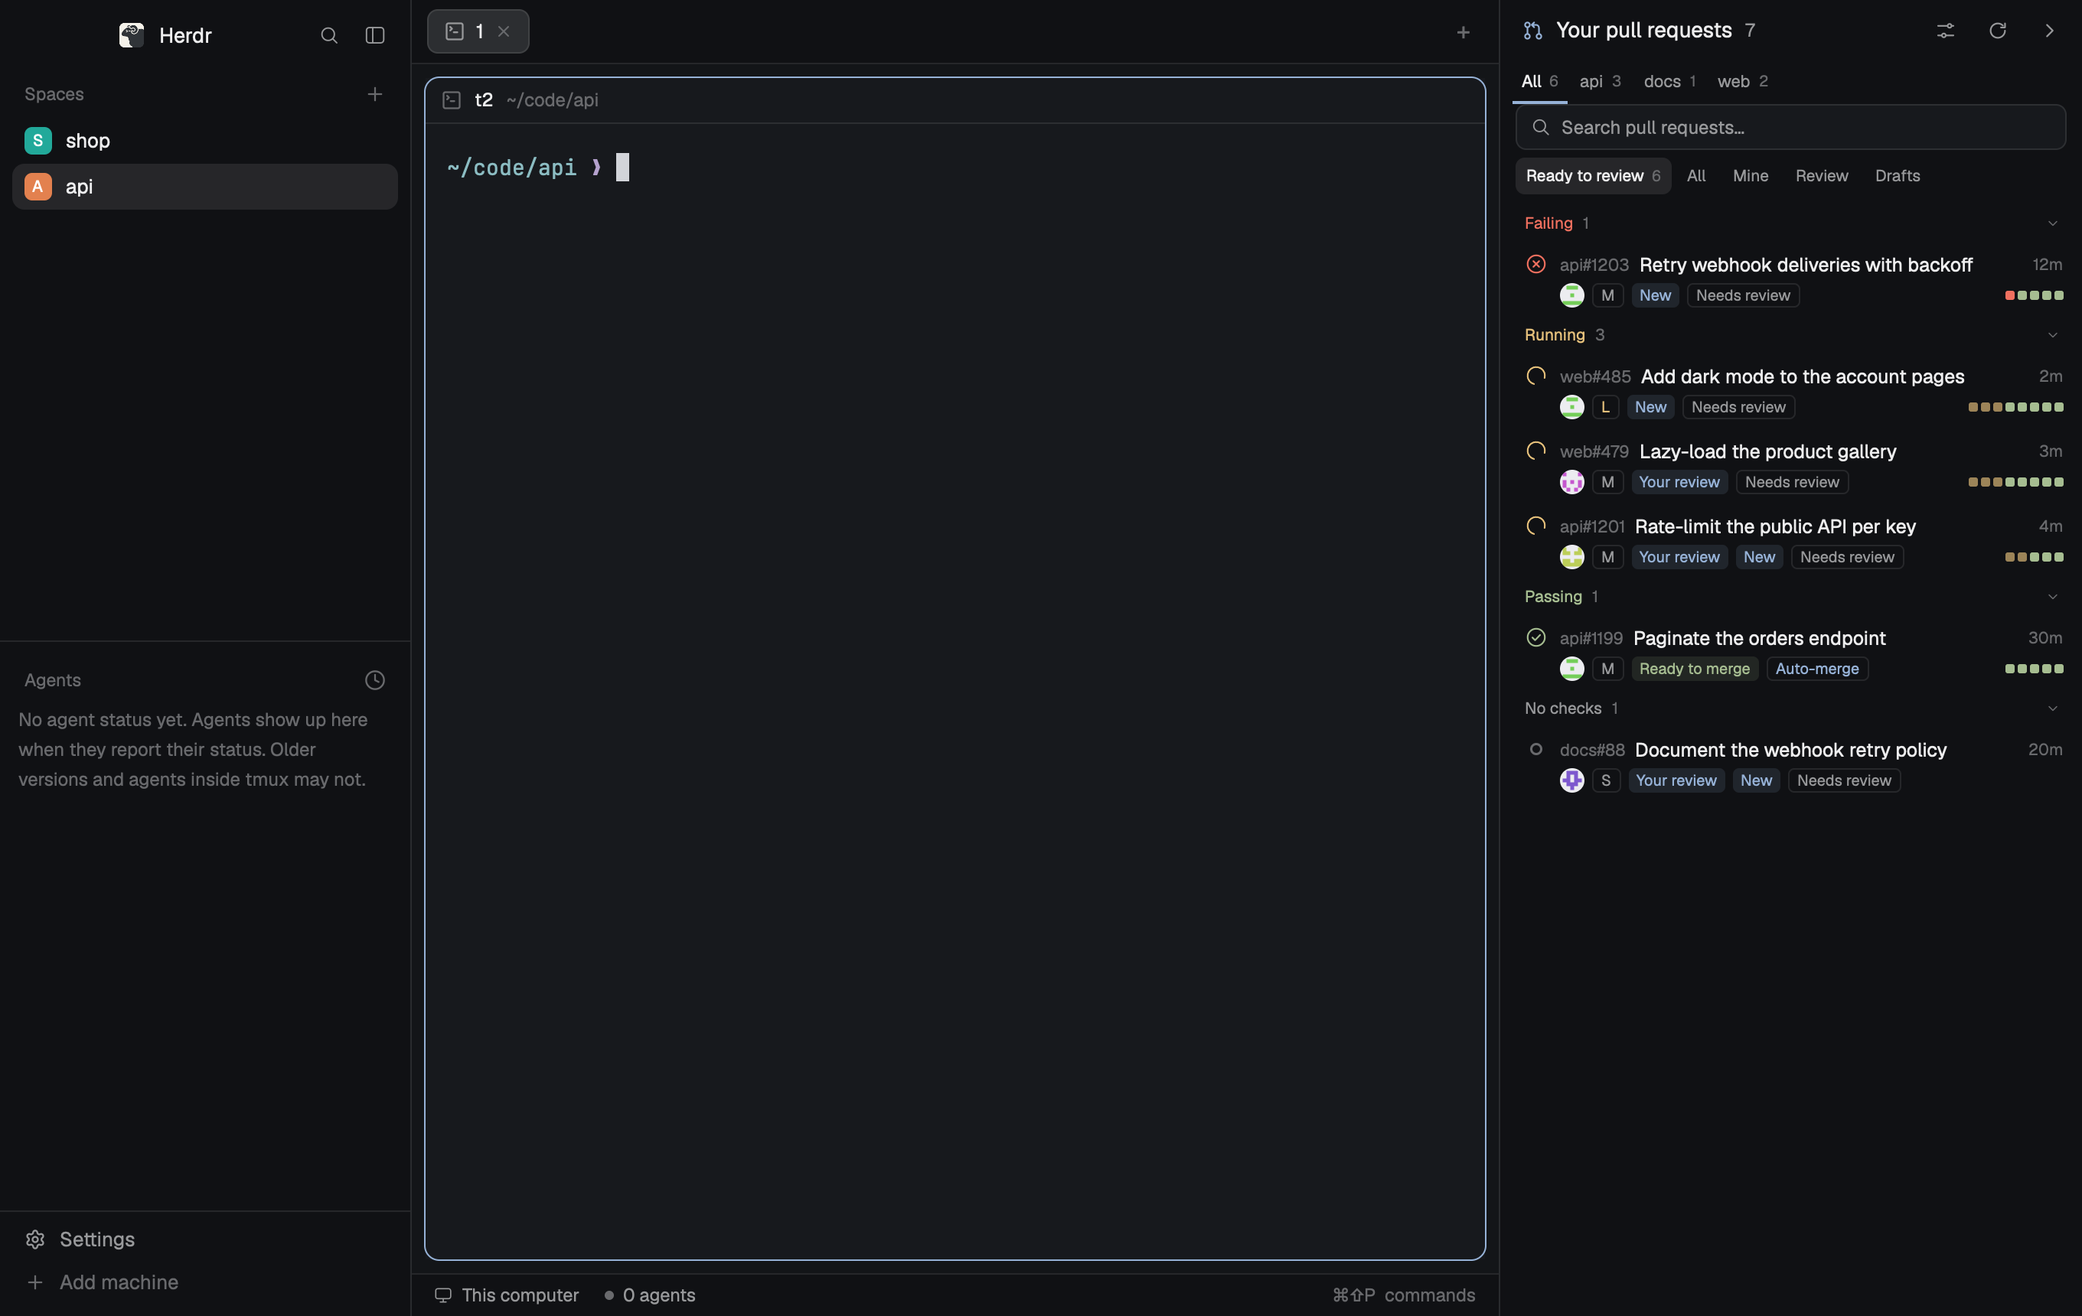
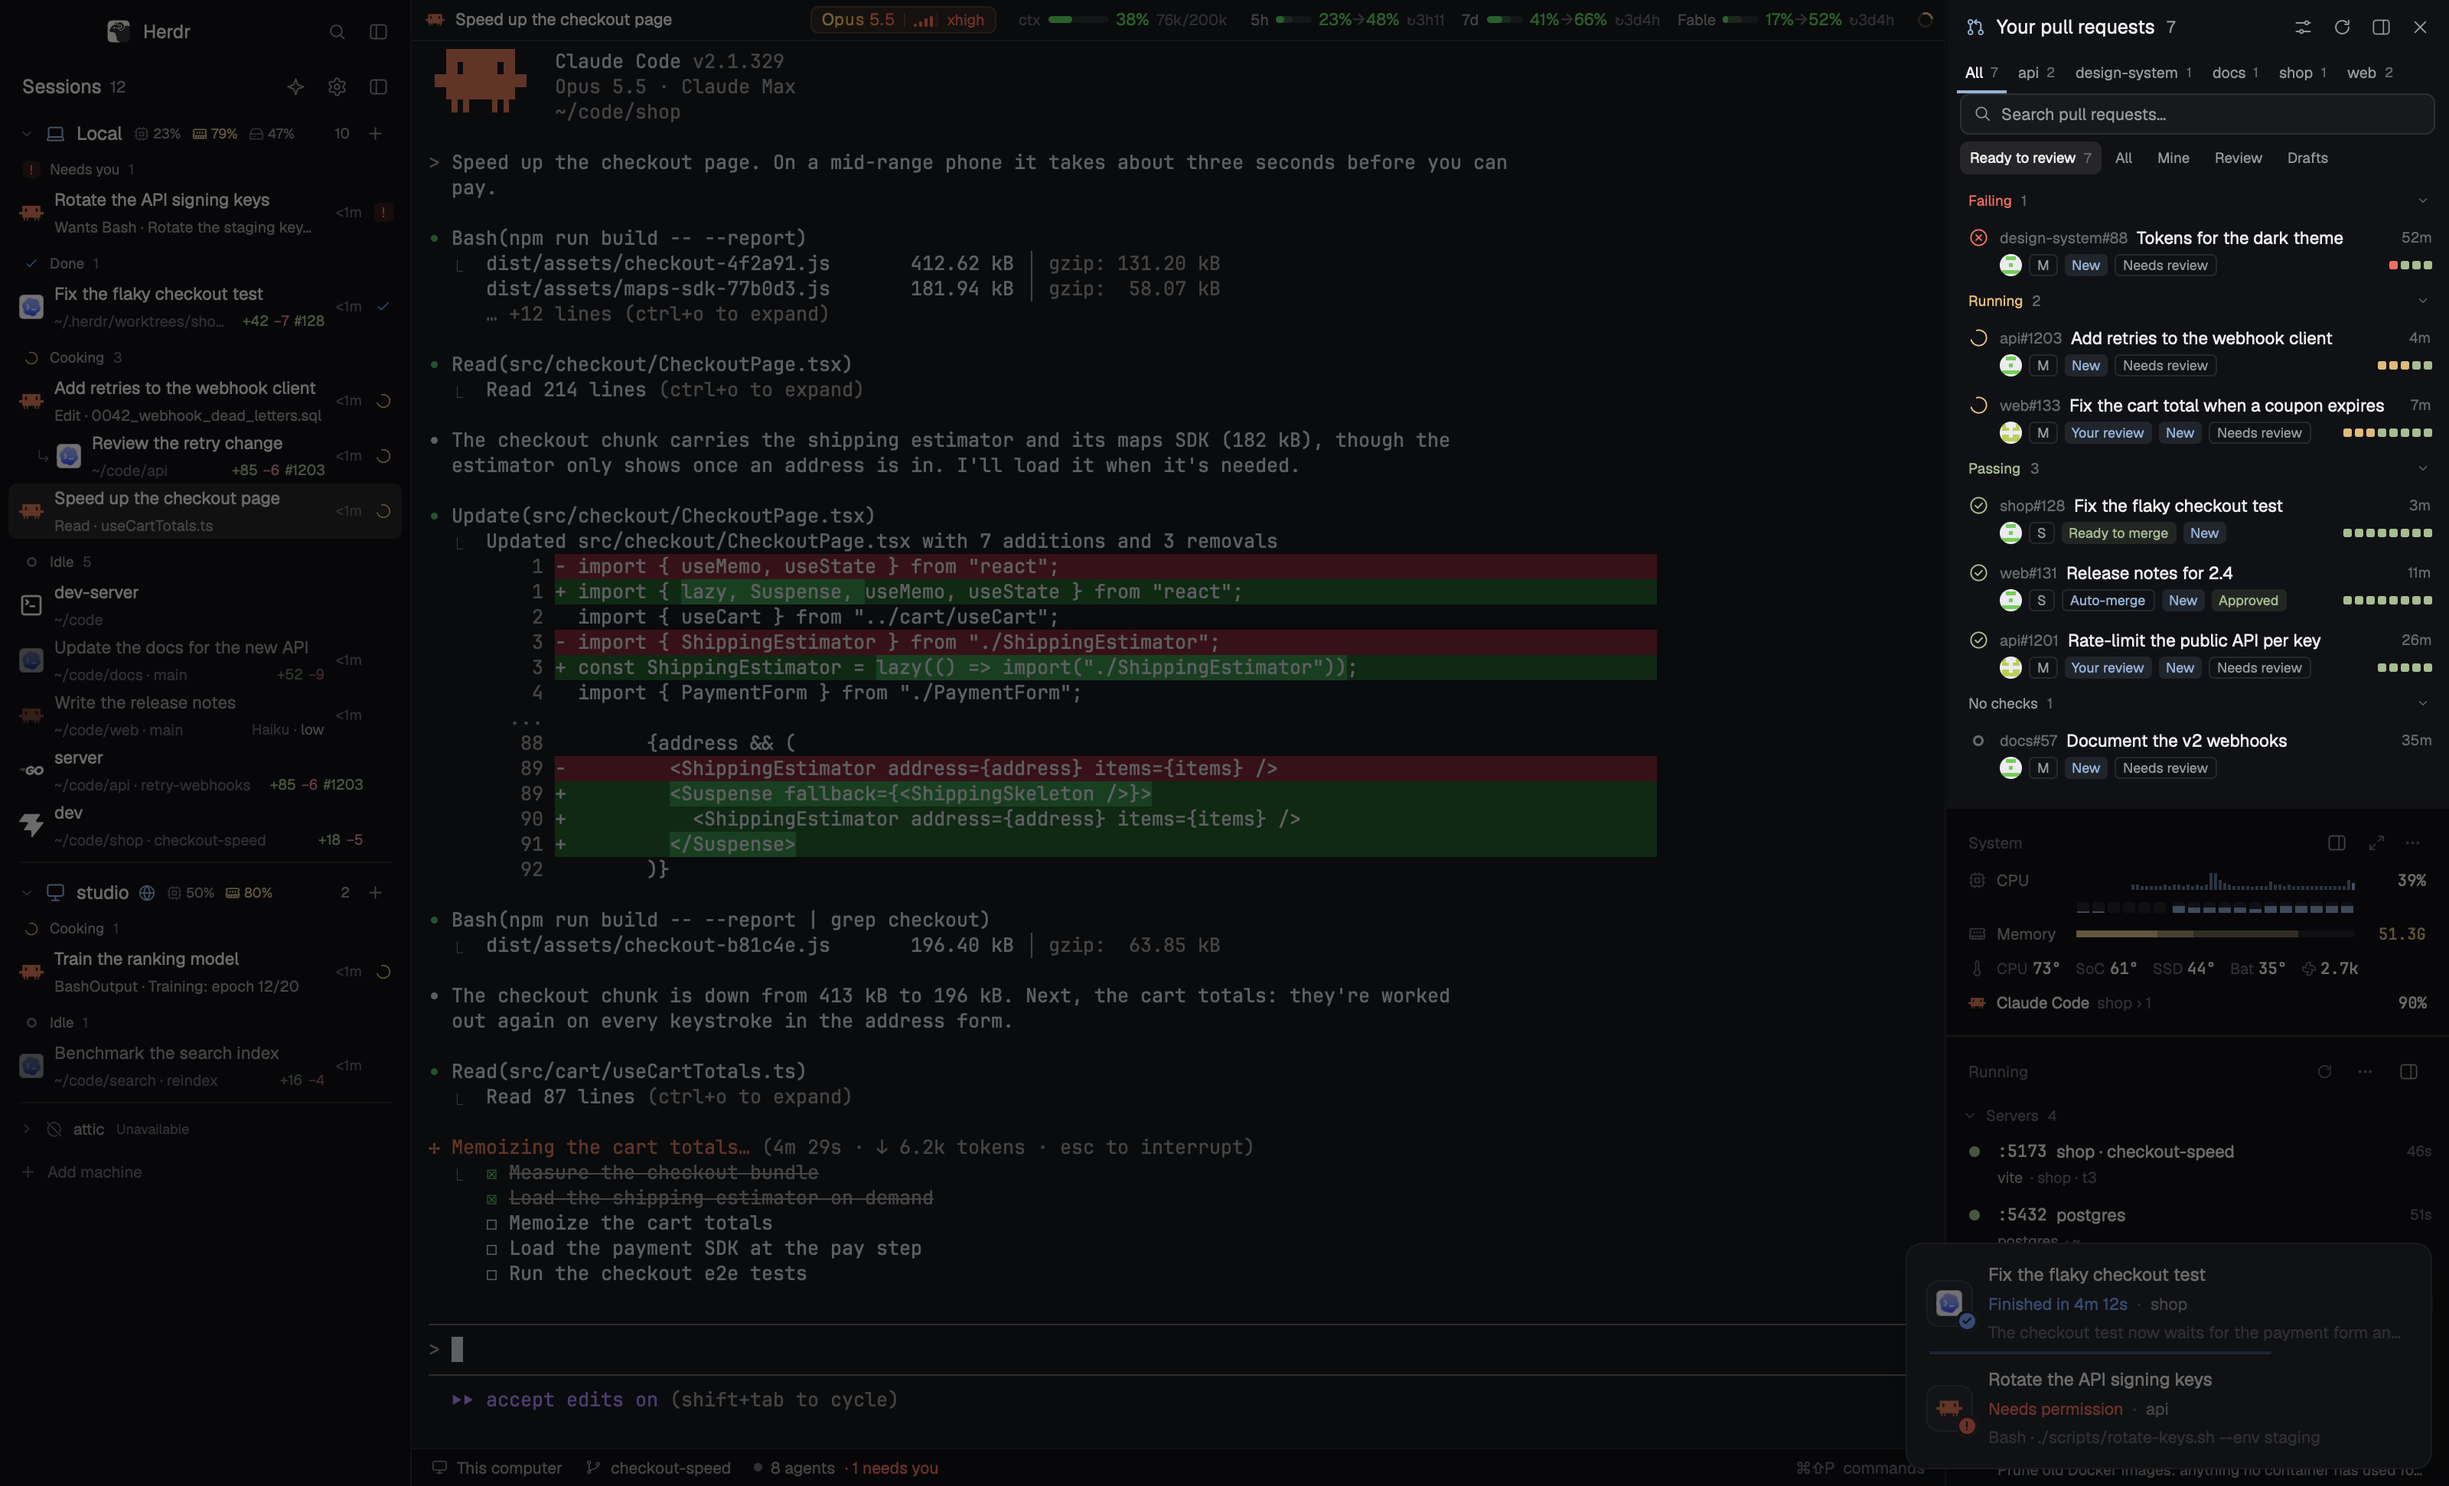
docs: show the mod in a full Herdr window, every other mod around it
The README's pictures are new, taken on the showcase stage: one made-up Herdr window with
all the mods running, this one in front and the rest dimmed behind it. A line under the main
picture says what else is in the frame, and a Works well with section links the other mods.
docs/demo says how to take the pictures again.

diff --git a/README.md b/README.md
@@ -7,7 +7,9 @@ requests, grouped by the state of their checks. By default it lists the ones you
 ones waiting on your review, from every repository. It can list every open pull request of the
 repositories you pick instead.
 
-![The Herdr window with the pull request sidebar on the right, titled Your pull requests, 7. Tabs for All, api, docs and web sit under the title. The list is grouped into Failing (1), Running (3), Passing (1) and No checks (1). Each row shows the repository and number, such as api#1203, the title, how long ago it was updated, the author's avatar, tags such as M, New, Needs review, Your review, Ready to merge and Auto-merge, and one small colored square per check.](preview.png)
+![The Herdr window, with the pull request sidebar at the top of the right-hand column. Titled Your pull requests, 7, it has tabs for All, api, design-system, docs, shop and web with their counts, a search box, and the filters Ready to review, All, Mine, Review and Drafts. The list is grouped by the state of the checks: Failing, design-system#88 Tokens for the dark theme; Running, api#1203 Add retries to the webhook client and web#133 Fix the cart total when a coupon expires; Passing, shop#128 Fix the flaky checkout test (Ready to merge), web#131 Release notes for 2.4 (Auto-merge, Approved) and api#1201 Rate-limit the public API per key (Your review); No checks, docs#57 Document the v2 webhooks. Each row has its state mark, repository and number, title and how long ago it was updated, and under that the author's avatar, a size tag such as M, tags such as New and Needs review, and one square per check, red failed, amber running, green passed. Below it in the same column, the CPU, memory and temperatures with Claude Code as the busiest terminal, then the servers running on ports 5173 and 5432. On the left, the Sessions sidebar lists the agents on this computer and on studio by state; in the middle, Claude Code works on Speed up the checkout page under a header with its model, context and limits. In the bottom right corner, two notifications: Fix the flaky checkout test finished in 4m 12s, and Rotate the API signing keys needs permission. The rest of the window is dimmed. The sessions, repositories and people are made up.](preview.png)
+
+*Around it: the [Sessions sidebar](https://github.com/jeffarese/herdr-agents-sidebar) on the left, a pane header with the model and limits over Claude Code, [stats](https://github.com/jeffarese/herdr-stats-mod) and what's running below the pull requests, and two notifications in the corner. Every session in it is made up.*
 
 Your pull requests, the ones waiting on your review and the ones whose checks just broke, in
 one list beside your terminals and agents, refreshed while you work. Click a row to see its
@@ -41,7 +43,7 @@ once, and until you close it, a note at the top says what it shows and how to ch
 
 The **sliders button** in the header opens **What to list**, where you choose between the two:
 
-![The sidebar's panel, titled What to list. Two choices, each with a round button: Yours, "Pull requests you opened or were asked to review, from every repository", and Repositories, "Every open pull request in the repositories you pick", which is chosen. Below them, a box takes owner/name or a GitHub link, with an Add button, and under "Suggested: your spaces and recent pushes" are acme/shop, acme/api, acme/web, acme/docs, acme/design-system and sam/dotfiles, each with a plus.](docs/media/what-to-list.png)
+![The pull request sidebar's What to list panel, cut out of the right-hand column of the same window. Under the title Pull requests, a line says it lists open pull requests with the state of their checks, and that this can change at any time. Two choices, each with a round button: Yours, "Pull requests you opened or were asked to review, from every repository", and Repositories, "Every open pull request in the repositories you pick", which is chosen. Below them, a box takes owner/name or a GitHub link, with an Add button, and under "Suggested: your spaces and recent pushes" are acme/shop, acme/api, acme/web, acme/docs, acme/design-system, acme/search and sam/dotfiles, each with a plus. The repositories are made up.](docs/media/what-to-list.png)
 
 - **Yours:** the pull requests you opened, and the ones whose review was asked of you by name.
   **Include reviews asked of your teams** adds those asked of any team you're in, with a Team
@@ -206,7 +208,7 @@ Everything goes through programs you already have; the mod makes no other networ
 ```sh
 npm test                          # 50 Node tests: model and view
 herdr-app check mods/github-prs   # Herdr's own checker
-sh docs/demo/record.sh            # the pictures, on a synthetic stage
+sh docs/demo/showcase-shots.sh    # the pictures, on the showcase stage
 ```
 
 - **`mods/github-prs/model.js`** is the data: check dedup, states, sections, filters, tags,
@@ -215,7 +217,18 @@ sh docs/demo/record.sh            # the pictures, on a synthetic stage
 - **`mods/github-prs/main.js`** draws the sidebar and runs `gh`, with Herdr's `herdr` and
   `gpui-kit` modules. `tests/view.test.mjs` runs it against an in-memory builder.
 - **`scripts/install.py`** puts the block in the layout.
-- **[docs/demo](docs/demo)** builds the stage the pictures were taken on. Nothing in them is real.
+- **[docs/demo](docs/demo)** says how the pictures are taken, on a made-up Herdr world shared
+  by these mods' READMEs, and holds this mod's scene for it. Nothing in them is real.
+
+## Works well with
+
+The pictures above are one Herdr window with these mods running together:
+
+- [Sessions sidebar](https://github.com/jeffarese/herdr-agents-sidebar): every agent and shell on all your machines in one sidebar, with sub-agents and background work.
+- [Stats](https://github.com/jeffarese/herdr-stats-mod): CPU, memory, GPU, network and temperatures beside your terminals, and which agent is using them.
+- [Quick switcher](https://github.com/jeffarese/herdr-bar-mod): ⌘K to any agent, tab, pane or space on every machine.
+- [Mod hub](https://github.com/jeffarese/herdr-mod-hub): browse the gallery, read a mod's code before installing it, and manage your mods.
+- [Outside](https://github.com/jeffarese/herdr-outside): the agents and terminals herdr-core runs outside your spaces.
 
 ## License
 

diff --git a/docs/demo/README.md b/docs/demo/README.md
@@ -1,43 +1,63 @@
 # The README's pictures
 
 [preview.png](../../preview.png) and [what-to-list.png](../media/what-to-list.png) show the real
-sidebar in the real Herdr app, on a stage that is synthetic from end to end. Nothing in them
-comes from a real repository, project or person.
+sidebar in the real Herdr app, on the showcase stage: a made-up Herdr world that every mod's
+README is pictured in (`~/workspace/herdr/herdr-showcase`, its `BRIEF.md` and `README.md`).
+Nothing in them comes from a real repository, project or person.
 
-**Real:** the Herdr app, herdr-core, this repository's mod and its installer.
+**Real:** the Herdr app, herdr-core, this repository's mod as its working tree has it, and the
+other mods around it, in one layout.
 
-**Synthetic:**
+**Made up:** Sam, who works at Acme, his spaces and agents on two machines, the servers, the
+toasts, and GitHub. The kit's `bin/gh` (grown from this folder's [bin/gh](bin/gh)) answers the
+calls the sidebar makes with Acme's repositories (`acme/shop`, `acme/api`, `acme/web`,
+`acme/docs`, `acme/design-system`), people and pull requests, timed relative to now, and its
+`bin/curl` draws the avatars. Nothing contacts GitHub.
 
-- **GitHub.** [bin/gh](bin/gh) stands in for the GitHub CLI. It answers the calls the sidebar
-  makes, a repository's list and the two steps of the search for yours, with made-up
-  repositories (`acme/web`, `acme/api`, `acme/docs`), people and pull requests, timed relative
-  to now. It never contacts GitHub, and logs each call to `gh.log` in the stage.
-- **The avatars.** [bin/curl](bin/curl) draws a pattern for each author instead of
-  downloading a picture.
-- **The projects.** `~/code/shop` and `~/code/api` are empty folders that the stand-in `gh`
-  treats as clones.
-- **The app.** A second Herdr app whose home is in the stage, with its own herdr-core, the
-  welcome already seen and usage reports off.
+## The scene
 
-Nothing of yours is read or written, and your own spaces don't show.
+The kit builds the stage and plays the default scene: the shop space's Claude Code in front, the
+right sidebar shared by this sidebar, the stats and the running list, and two toasts. Then it
+runs [showcase.sh](showcase.sh), this mod's hook, which changes the stage's copy of the layout:
+
+- **preview.png:** the sidebar lists yours, as a new one does, and is 585 pt tall, so all
+  seven pull requests show with their sections unfolded: Failing, Running, Passing and No
+  checks. The stats take 165 pt in their compact form, and the running list the rest, with its
+  servers above the toasts. Nothing is dimmed.
+- **what-to-list.png** (`showcase.sh <stage> what-to-list`): the same block, under a new block
+  name, told to list repositories with none picked yet, so it opens on its What to list panel
+  with suggestions from the stage's spaces. The picture is the block, cut out of the right
+  sidebar.
 
 ## Take them again
 
+From this repository's root, with the showcase kit in `~/workspace/herdr/herdr-showcase`
+(`SHOWCASE_KIT` names another place):
+
 ```sh
-sh docs/demo/record.sh
+sh docs/demo/showcase-shots.sh
 ```
 
-It needs the Herdr app, herdr-core and python3. The app draws the pictures itself
-(`herdr-app shot`), so no screen recording permission is involved.
+[showcase-shots.sh](showcase-shots.sh) builds a stage with `SHOWCASE_TFVPN=0` (the VPN switch
+left out, as for every public README) and this hook, takes preview.png, sets the What to list
+scene and takes its crop of the right sidebar (`PANEL_CROP`, in pixels of the 3200-wide
+picture), then takes the stage down, also when something fails. Each picture goes through the
+kit's `shoot.sh`, which waits until the keyboard and mouse have been still for a minute and
+brings the stage's window to the front for about a second and a half, so a run takes a few
+minutes.
 
-- **[stage.sh](stage.sh)** starts the core and the second app, and prints the stage's folder.
-  `stage.sh --down <folder>` stops everything and deletes it.
-- **[shots.sh](shots.sh)** opens two spaces, runs the installer and takes the pictures: the
-  sidebar listing yours, then its panel set to pick repositories.
-- **[record.sh](record.sh)** runs both and takes the stage down.
+To work on a scene by hand, keep a stage up:
 
-Two things to know before you run it:
+```sh
+kit=~/workspace/herdr/herdr-showcase
+w=$(SHOWCASE_TFVPN=0 SHOWCASE_HOOK=$PWD/docs/demo/showcase.sh sh $kit/stage.sh)
+sh docs/demo/showcase.sh "$w" what-to-list    # or without the scene name: preview.png's
+sh $kit/shoot.sh "$w" /tmp/look.png
+sh $kit/stage.sh --down "$w"
+```
 
-- **The second app's window comes to the front for each picture,** because the app only draws
-  while its window can be seen. Keys you type meanwhile go to it; its terminals don't show them.
-- **Starting the Herdr app installs an app update that was waiting,** as any start does.
+## The older stage
+
+[stage.sh](stage.sh), [shots.sh](shots.sh) and [record.sh](record.sh) built this repository's
+own stage (one app with two shell spaces and Herdr's shipped layout) and took the earlier
+pictures. They still run, but no README picture comes from them now.
